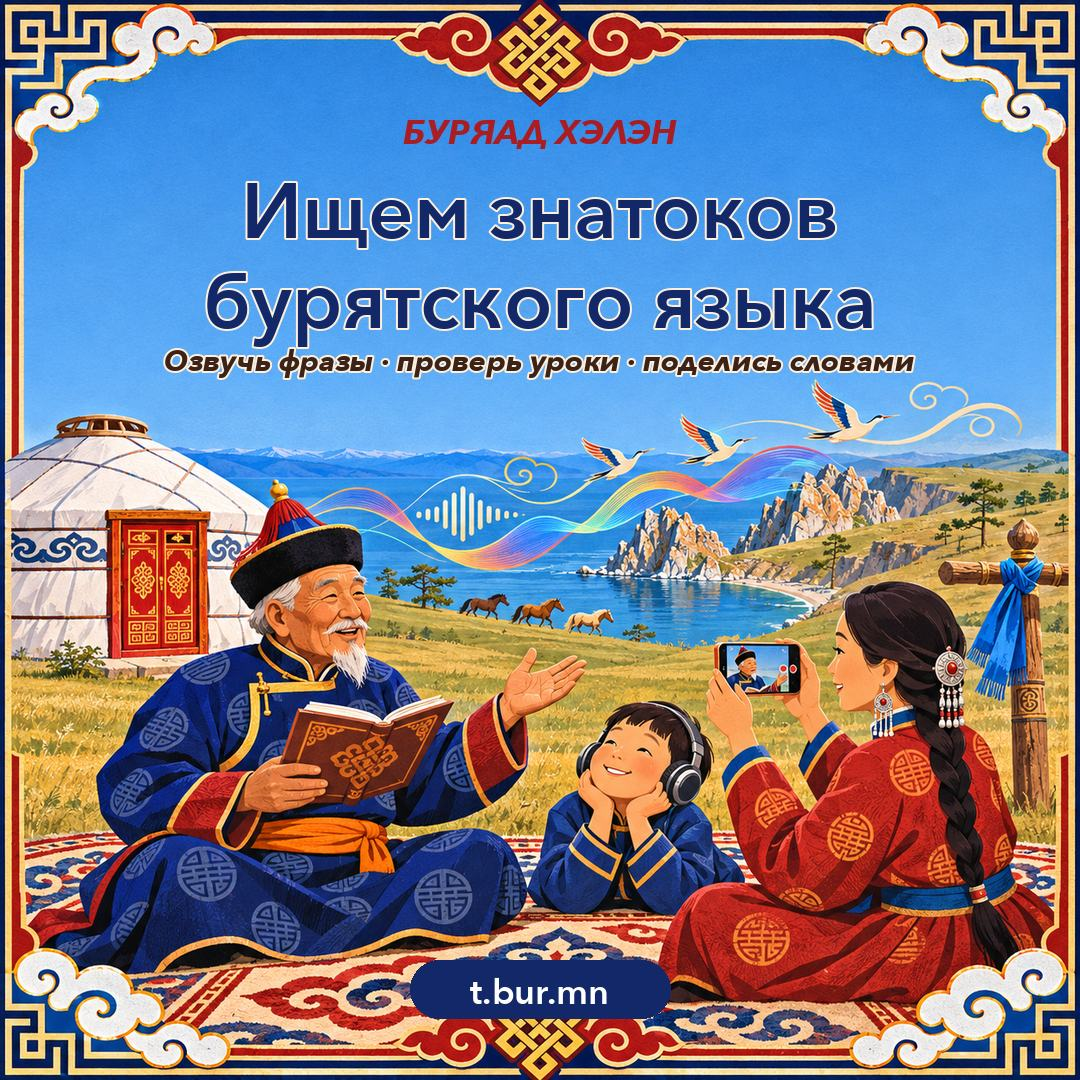
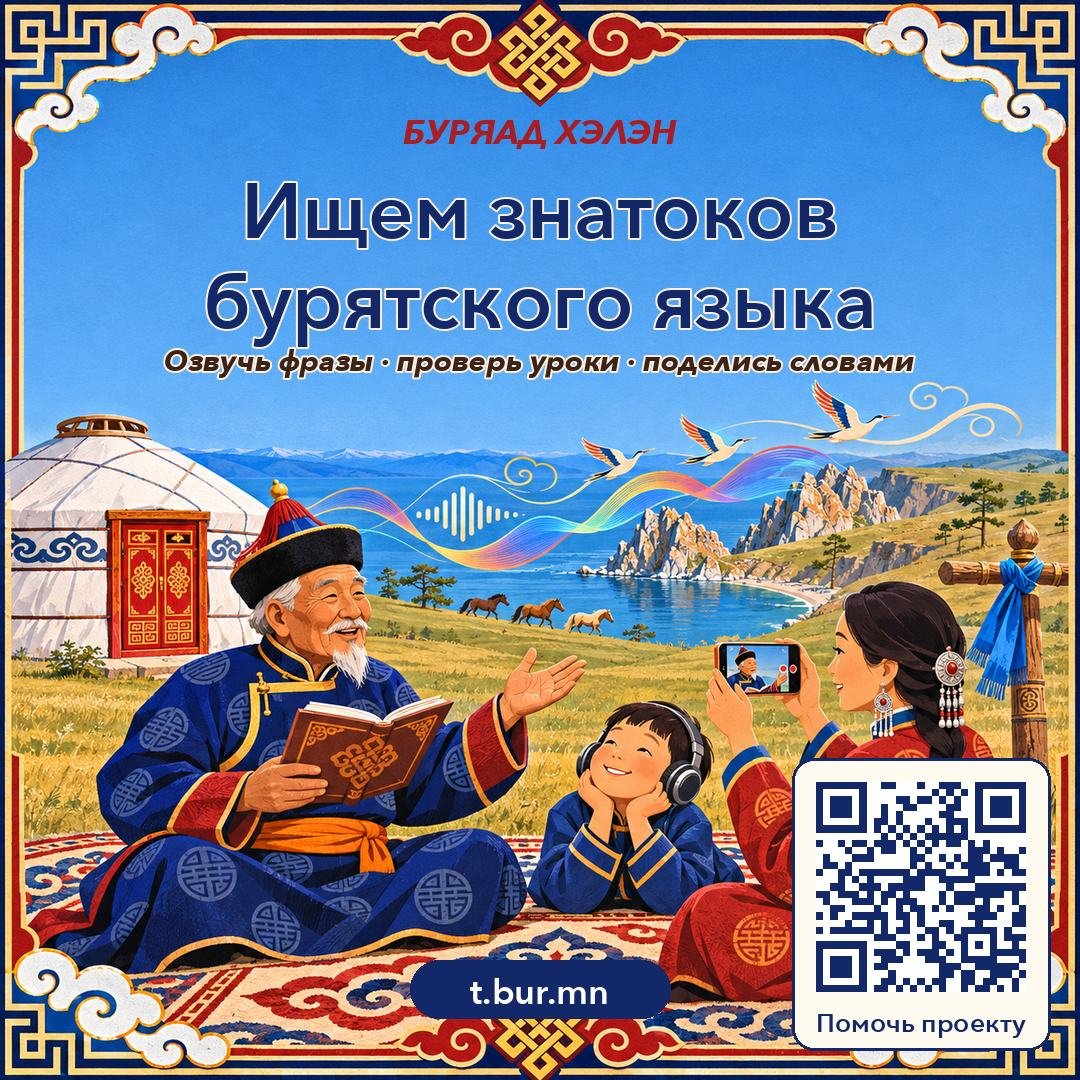
feat(pomoch): CC BY 4.0 consent, privacy page, QR poster

Changed region(s): [[0.7333, 0.7028, 0.9778, 0.9778]]

diff --git a/next/components/pomoch/volunteer-form.tsx b/next/components/pomoch/volunteer-form.tsx
@@ -3,25 +3,26 @@
 import { useState, type FormEvent } from 'react';
 import axios from 'axios';
 import { useLocale, useTranslations } from 'next-intl';
+import { Link } from '@/i18n/navigation';
 import { submitVolunteerApplication } from '@/lib/api/volunteers';
+import { normalizeTelegram, validateVolunteerForm } from '@/lib/volunteer-form';
 
 const HELP_TYPES = ['voice', 'review', 'words', 'other'] as const;
-const TELEGRAM_RE = /^[A-Za-z0-9_]{4,32}$/;
 
-function normalizeTelegram(value: string): string {
-  return value
-    .trim()
-    .replace(/^https?:\/\//i, '')
-    .replace(/^t\.me\//i, '')
-    .replace(/^@/, '')
-    .replace(/[/?].*$/, '');
-}
+const ERROR_KEYS = {
+  name: 'errName',
+  telegram: 'errTelegram',
+  help: 'errHelp',
+  about: 'errAbout',
+  consent: 'errConsent',
+} as const;
 
 interface Errors {
   name?: string;
   telegram?: string;
   help?: string;
   about?: string;
+  consent?: string;
   form?: string;
 }
 
@@ -35,6 +36,8 @@ const fieldStyle = {
   font: 'inherit',
 } as const;
 
+const linkStyle = { color: 'var(--primary-700)', textDecoration: 'underline' } as const;
+
 const errorStyle = { color: 'var(--tertiary-700)', fontSize: 13, marginTop: 4 } as const;
 
 export function VolunteerForm() {
@@ -45,6 +48,7 @@ export function VolunteerForm() {
   const [helpTypes, setHelpTypes] = useState<string[]>([]);
   const [about, setAbout] = useState('');
   const [website, setWebsite] = useState('');
+  const [consent, setConsent] = useState(false);
   const [errors, setErrors] = useState<Errors>({});
   const [submitting, setSubmitting] = useState(false);
   const [done, setDone] = useState(false);
@@ -55,12 +59,9 @@ export function VolunteerForm() {
   async function onSubmit(e: FormEvent) {
     e.preventDefault();
     if (submitting) return;
-    const handle = normalizeTelegram(telegram);
+    const failed = validateVolunteerForm({ name, telegram, helpTypes, about, consent });
     const next: Errors = {};
-    if (name.trim().length < 2) next.name = t('errName');
-    if (!TELEGRAM_RE.test(handle)) next.telegram = t('errTelegram');
-    if (helpTypes.length === 0) next.help = t('errHelp');
-    if (about.length > 1000) next.about = t('errAbout');
+    for (const key of Object.keys(failed) as (keyof typeof ERROR_KEYS)[]) next[key] = t(ERROR_KEYS[key]);
     setErrors(next);
     if (Object.keys(next).length > 0) return;
 
@@ -68,11 +69,12 @@ export function VolunteerForm() {
     try {
       await submitVolunteerApplication({
         name: name.trim(),
-        telegram: handle,
+        telegram: normalizeTelegram(telegram),
         help_types: helpTypes,
         about: about.trim() || undefined,
         locale,
         website,
+        consent: true,
       });
       setDone(true);
     } catch (err) {
@@ -96,6 +98,17 @@ export function VolunteerForm() {
     <section className="card" style={{ padding: 20 }}>
       <h2 style={{ fontSize: 22, fontWeight: 700, margin: '0 0 6px' }}>{t('title')}</h2>
       <p style={{ margin: '0 0 16px', color: 'var(--text-muted)' }}>{t('text')}</p>
+      <div style={{ margin: '0 0 18px', padding: 14, borderRadius: 12, background: 'var(--surface-2)' }}>
+        <h3 style={{ fontSize: 16, fontWeight: 700, margin: '0 0 6px' }}>{t('usageTitle')}</h3>
+        <ul style={{ listStyle: 'disc', paddingLeft: 20, margin: 0, display: 'flex', flexDirection: 'column', gap: 6, fontSize: 14 }}>
+          {(t.raw('usage') as string[]).map((s) => (
+            <li key={s}>{s}</li>
+          ))}
+        </ul>
+        <a href={t('licenseUrl')} target="_blank" rel="noreferrer noopener" style={{ ...linkStyle, display: 'inline-block', marginTop: 8, fontSize: 14 }}>
+          {t('licenseLink')}
+        </a>
+      </div>
       <form onSubmit={onSubmit} noValidate style={{ display: 'flex', flexDirection: 'column', gap: 14 }}>
         <label>
           <span style={{ fontSize: 14, fontWeight: 600 }}>{t('name')}</span>
@@ -165,6 +178,23 @@ export function VolunteerForm() {
           aria-hidden="true"
           style={{ position: 'absolute', left: '-9999px', width: 1, height: 1, opacity: 0 }}
         />
+
+        <div>
+          <label style={{ display: 'flex', gap: 8, alignItems: 'flex-start', fontSize: 14 }}>
+            <input
+              type="checkbox"
+              checked={consent}
+              onChange={(e) => setConsent(e.target.checked)}
+              aria-invalid={Boolean(errors.consent)}
+              style={{ marginTop: 3 }}
+            />
+            <span>
+              {t('consentBefore')}
+              <Link href="/privacy" style={linkStyle}>{t('consentLink')}</Link>
+            </span>
+          </label>
+          {errors.consent && <div role="alert" style={errorStyle}>{errors.consent}</div>}
+        </div>
 
         <p style={{ margin: 0, fontSize: 13, color: 'var(--text-muted)' }}>{t('privacy')}</p>
         {errors.form && <div role="alert" style={errorStyle}>{errors.form}</div>}

diff --git a/next/app/[locale]/privacy/page.tsx b/next/app/[locale]/privacy/page.tsx
@@ -1,0 +1,72 @@
+import type { Metadata } from 'next';
+import { getTranslations, setRequestLocale } from 'next-intl/server';
+
+export async function generateMetadata({
+  params,
+}: {
+  params: { locale: string };
+}): Promise<Metadata> {
+  const t = await getTranslations({ locale: params.locale, namespace: 'privacy' });
+  return { title: t('metaTitle'), description: t('metaDescription') };
+}
+
+const heading = { fontSize: 20, fontWeight: 700, margin: '0 0 8px' } as const;
+const list = { listStyle: 'disc', paddingLeft: 20, margin: 0, display: 'flex', flexDirection: 'column', gap: 6 } as const;
+
+export default async function PrivacyPage({ params }: { params: { locale: string } }) {
+  setRequestLocale(params.locale);
+  const t = await getTranslations('privacy');
+  const collect = t.raw('collect') as string[];
+  const licenseUrl = (await getTranslations('pomoch.form'))('licenseUrl');
+
+  return (
+    <div
+      className="container fade-up"
+      style={{ paddingTop: 32, paddingBottom: 32, display: 'flex', flexDirection: 'column', gap: 24, maxWidth: 680, lineHeight: 1.6 }}
+    >
+      <div>
+        <h1 style={{ fontSize: 36, fontWeight: 700, lineHeight: 1.1, letterSpacing: '-0.02em' }}>{t('title')}</h1>
+        <p style={{ color: 'var(--text-muted)', marginTop: 8, fontSize: 14 }}>{t('updated')}</p>
+      </div>
+
+      <section>
+        <h2 style={heading}>{t('collectTitle')}</h2>
+        <ul style={list}>
+          {collect.map((s) => (
+            <li key={s}>{s}</li>
+          ))}
+        </ul>
+      </section>
+
+      <section>
+        <h2 style={heading}>{t('whyTitle')}</h2>
+        <p style={{ margin: 0 }}>{t('why')}</p>
+      </section>
+
+      <section>
+        <h2 style={heading}>{t('storageTitle')}</h2>
+        <p style={{ margin: 0 }}>{t('storage')}</p>
+      </section>
+
+      <section>
+        <h2 style={heading}>{t('licenseTitle')}</h2>
+        <p style={{ margin: 0 }}>{t('license')}</p>
+        <p style={{ margin: '8px 0 0' }}>
+          <a href={licenseUrl} target="_blank" rel="noreferrer noopener" style={{ color: 'var(--primary-700)', textDecoration: 'underline' }}>
+            {t('licenseLabel')}
+          </a>
+        </p>
+      </section>
+
+      <section>
+        <h2 style={heading}>{t('contactsTitle')}</h2>
+        <p style={{ margin: 0 }}>{t('contacts')}</p>
+      </section>
+
+      <section>
+        <h2 style={heading}>{t('deleteTitle')}</h2>
+        <p style={{ margin: 0 }}>{t('delete')}</p>
+      </section>
+    </div>
+  );
+}

diff --git a/next/lib/volunteer-form.test.ts b/next/lib/volunteer-form.test.ts
@@ -1,0 +1,31 @@
+import { describe, expect, it } from 'vitest';
+import { normalizeTelegram, validateVolunteerForm, type VolunteerFormValues } from './volunteer-form';
+
+const valid: VolunteerFormValues = {
+  name: 'Аюр',
+  telegram: '@ayur_bur',
+  helpTypes: ['voice'],
+  about: '',
+  consent: true,
+};
+
+describe('validateVolunteerForm', () => {
+  it('accepts a complete form with consent', () => {
+    expect(validateVolunteerForm(valid)).toEqual({});
+  });
+
+  it('blocks submit without consent', () => {
+    expect(validateVolunteerForm({ ...valid, consent: false })).toEqual({ consent: true });
+  });
+
+  it('reports every missing field', () => {
+    const errors = validateVolunteerForm({ name: '', telegram: 'ab', helpTypes: [], about: 'x'.repeat(1001), consent: false });
+    expect(Object.keys(errors).sort()).toEqual(['about', 'consent', 'help', 'name', 'telegram']);
+  });
+});
+
+describe('normalizeTelegram', () => {
+  it.each(['@ayur_bur', 't.me/ayur_bur', 'https://t.me/ayur_bur', 'https://t.me/ayur_bur/?start=1'])('%s', (input) => {
+    expect(normalizeTelegram(input)).toBe('ayur_bur');
+  });
+});

diff --git a/next/lib/volunteer-form.ts b/next/lib/volunteer-form.ts
@@ -1,0 +1,32 @@
+const TELEGRAM_RE = /^[A-Za-z0-9_]{4,32}$/;
+
+export interface VolunteerFormValues {
+  name: string;
+  telegram: string;
+  helpTypes: string[];
+  about: string;
+  consent: boolean;
+}
+
+export type VolunteerFormErrors = Partial<
+  Record<'name' | 'telegram' | 'help' | 'about' | 'consent', true>
+>;
+
+export function normalizeTelegram(value: string): string {
+  return value
+    .trim()
+    .replace(/^https?:\/\//i, '')
+    .replace(/^t\.me\//i, '')
+    .replace(/^@/, '')
+    .replace(/[/?].*$/, '');
+}
+
+export function validateVolunteerForm(values: VolunteerFormValues): VolunteerFormErrors {
+  const errors: VolunteerFormErrors = {};
+  if (values.name.trim().length < 2) errors.name = true;
+  if (!TELEGRAM_RE.test(normalizeTelegram(values.telegram))) errors.telegram = true;
+  if (values.helpTypes.length === 0) errors.help = true;
+  if (values.about.length > 1000) errors.about = true;
+  if (!values.consent) errors.consent = true;
+  return errors;
+}

diff --git a/next/components/footer.tsx b/next/components/footer.tsx
@@ -21,13 +21,14 @@ const CHROME_HREF =
   'https://chrome.google.com/webstore/detail/%D0%B1%D1%83%D1%80%D1%8F%D1%82%D1%81%D0%BA%D0%BE-%D1%80%D1%83%D1%81%D1%81%D0%BA%D0%B8%D0%B9-%D1%81%D0%BB%D0%BE%D0%B2%D0%B0%D1%80%D1%8C/gmljjdkoihndbbddpmechgpmacpglcei?hl=ru';
 const KEYBOARD_HREF = 'https://github.com/buryads/buryad-keyboard-layout';
 
-const NAV_LINKS: ReadonlyArray<{ id: 'home' | 'dictionary' | 'names' | 'packs' | 'changes' | 'help'; href: string }> = [
+const NAV_LINKS: ReadonlyArray<{ id: 'home' | 'dictionary' | 'names' | 'packs' | 'changes' | 'help' | 'privacy'; href: string }> = [
   { id: 'home', href: '/' },
   { id: 'dictionary', href: '/explore' },
   { id: 'names', href: '/names' },
   { id: 'packs', href: '/packs' },
   { id: 'changes', href: '/changes' },
   { id: 'help', href: '/pomoch' },
+  { id: 'privacy', href: '/privacy' },
 ];
 
 const linkStyle = {

diff --git a/next/lib/api/volunteers.ts b/next/lib/api/volunteers.ts
@@ -7,6 +7,7 @@ export interface VolunteerApplicationInput {
   about?: string;
   locale: string;
   website: string;
+  consent: boolean;
 }
 
 export async function submitVolunteerApplication(

diff --git a/next/content/changes/2026-11-17-contributions-license/bur.md b/next/content/changes/2026-11-17-contributions-license/bur.md
@@ -1,0 +1,19 @@
+---
+date: 2026-11-17
+title: Условия и лицензия для знатоков
+bur_reviewed: false
+---
+
+## Что нового
+
+На странице «Помочь проекту» теперь написано, как мы используем ваш вклад: голос, слова и правки уроков открыты всем под лицензией CC BY 4.0. Контакты мы не публикуем. Появилась страница «Политика и лицензия», а в форме заявки нужно согласие с условиями.
+
+## Как пользоваться
+
+1. Откройте «Помочь проекту» внизу сайта.
+2. Прочитайте блок «Как мы используем ваш вклад».
+3. Отметьте согласие и отправьте заявку.
+
+## Как это работает
+
+Автором мы указываем «buryads.com и участники». Удалить свои данные и записи можно по запросу.

diff --git a/next/content/changes/2026-11-17-contributions-license/ru.md b/next/content/changes/2026-11-17-contributions-license/ru.md
@@ -1,0 +1,19 @@
+---
+date: 2026-11-17
+title: Условия и лицензия для знатоков
+bur_reviewed: false
+---
+
+## Что нового
+
+На странице «Помочь проекту» теперь написано, как мы используем ваш вклад: голос, слова и правки уроков открыты всем под лицензией CC BY 4.0. Контакты мы не публикуем. Появилась страница «Политика и лицензия», а в форме заявки нужно согласие с условиями.
+
+## Как пользоваться
+
+1. Откройте «Помочь проекту» внизу сайта.
+2. Прочитайте блок «Как мы используем ваш вклад».
+3. Отметьте согласие и отправьте заявку.
+
+## Как это работает
+
+Автором мы указываем «buryads.com и участники». Удалить свои данные и записи можно по запросу.

diff --git a/next/content/changes/2026-11-17-contributions-license/en.md b/next/content/changes/2026-11-17-contributions-license/en.md
@@ -1,0 +1,19 @@
+---
+date: 2026-11-17
+title: Terms and license for contributors
+bur_reviewed: false
+---
+
+## What's new
+
+The "Help the project" page now explains how we use your contribution: your voice, words and lesson corrections are open to everyone under the CC BY 4.0 license. We do not publish your contacts. There is a new "Policy and license" page, and the application form requires agreeing to the terms.
+
+## How to use
+
+1. Open "Help the project" at the bottom of the site.
+2. Read the "How we use your contribution" block.
+3. Tick the agreement and send your application.
+
+## How it works
+
+Attribution is "buryads.com and contributors". You can ask us to delete your data and recordings.
